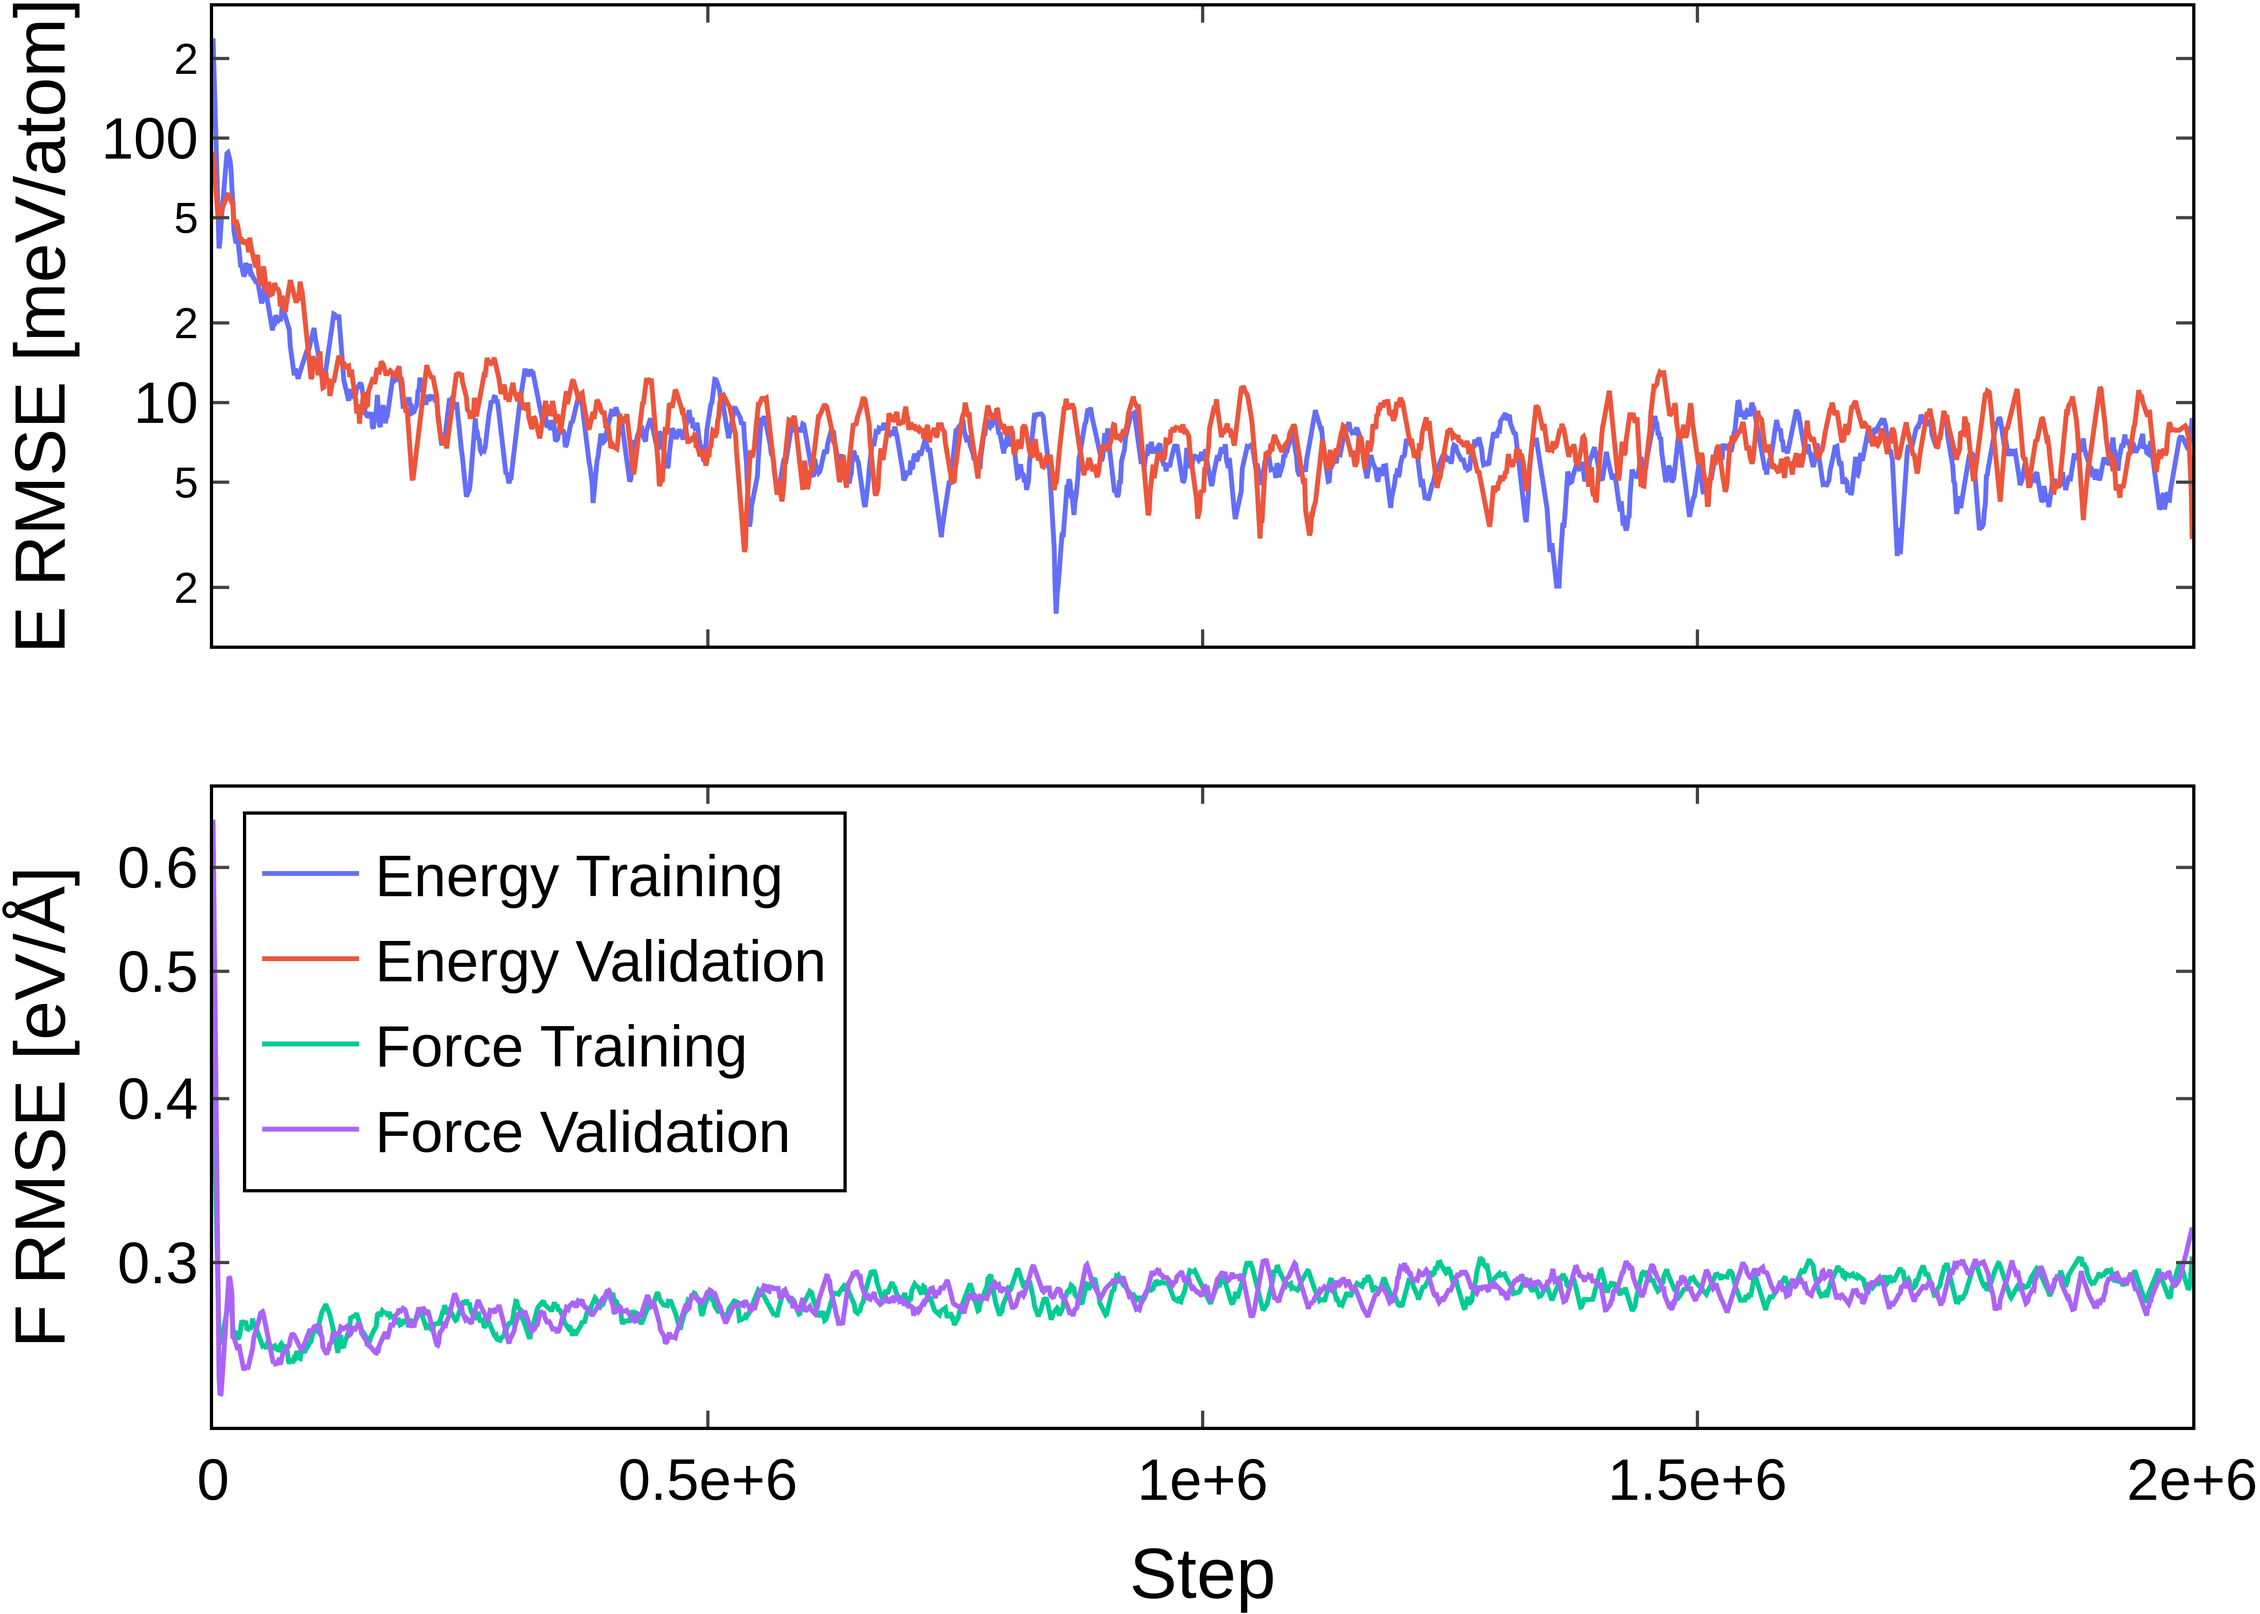
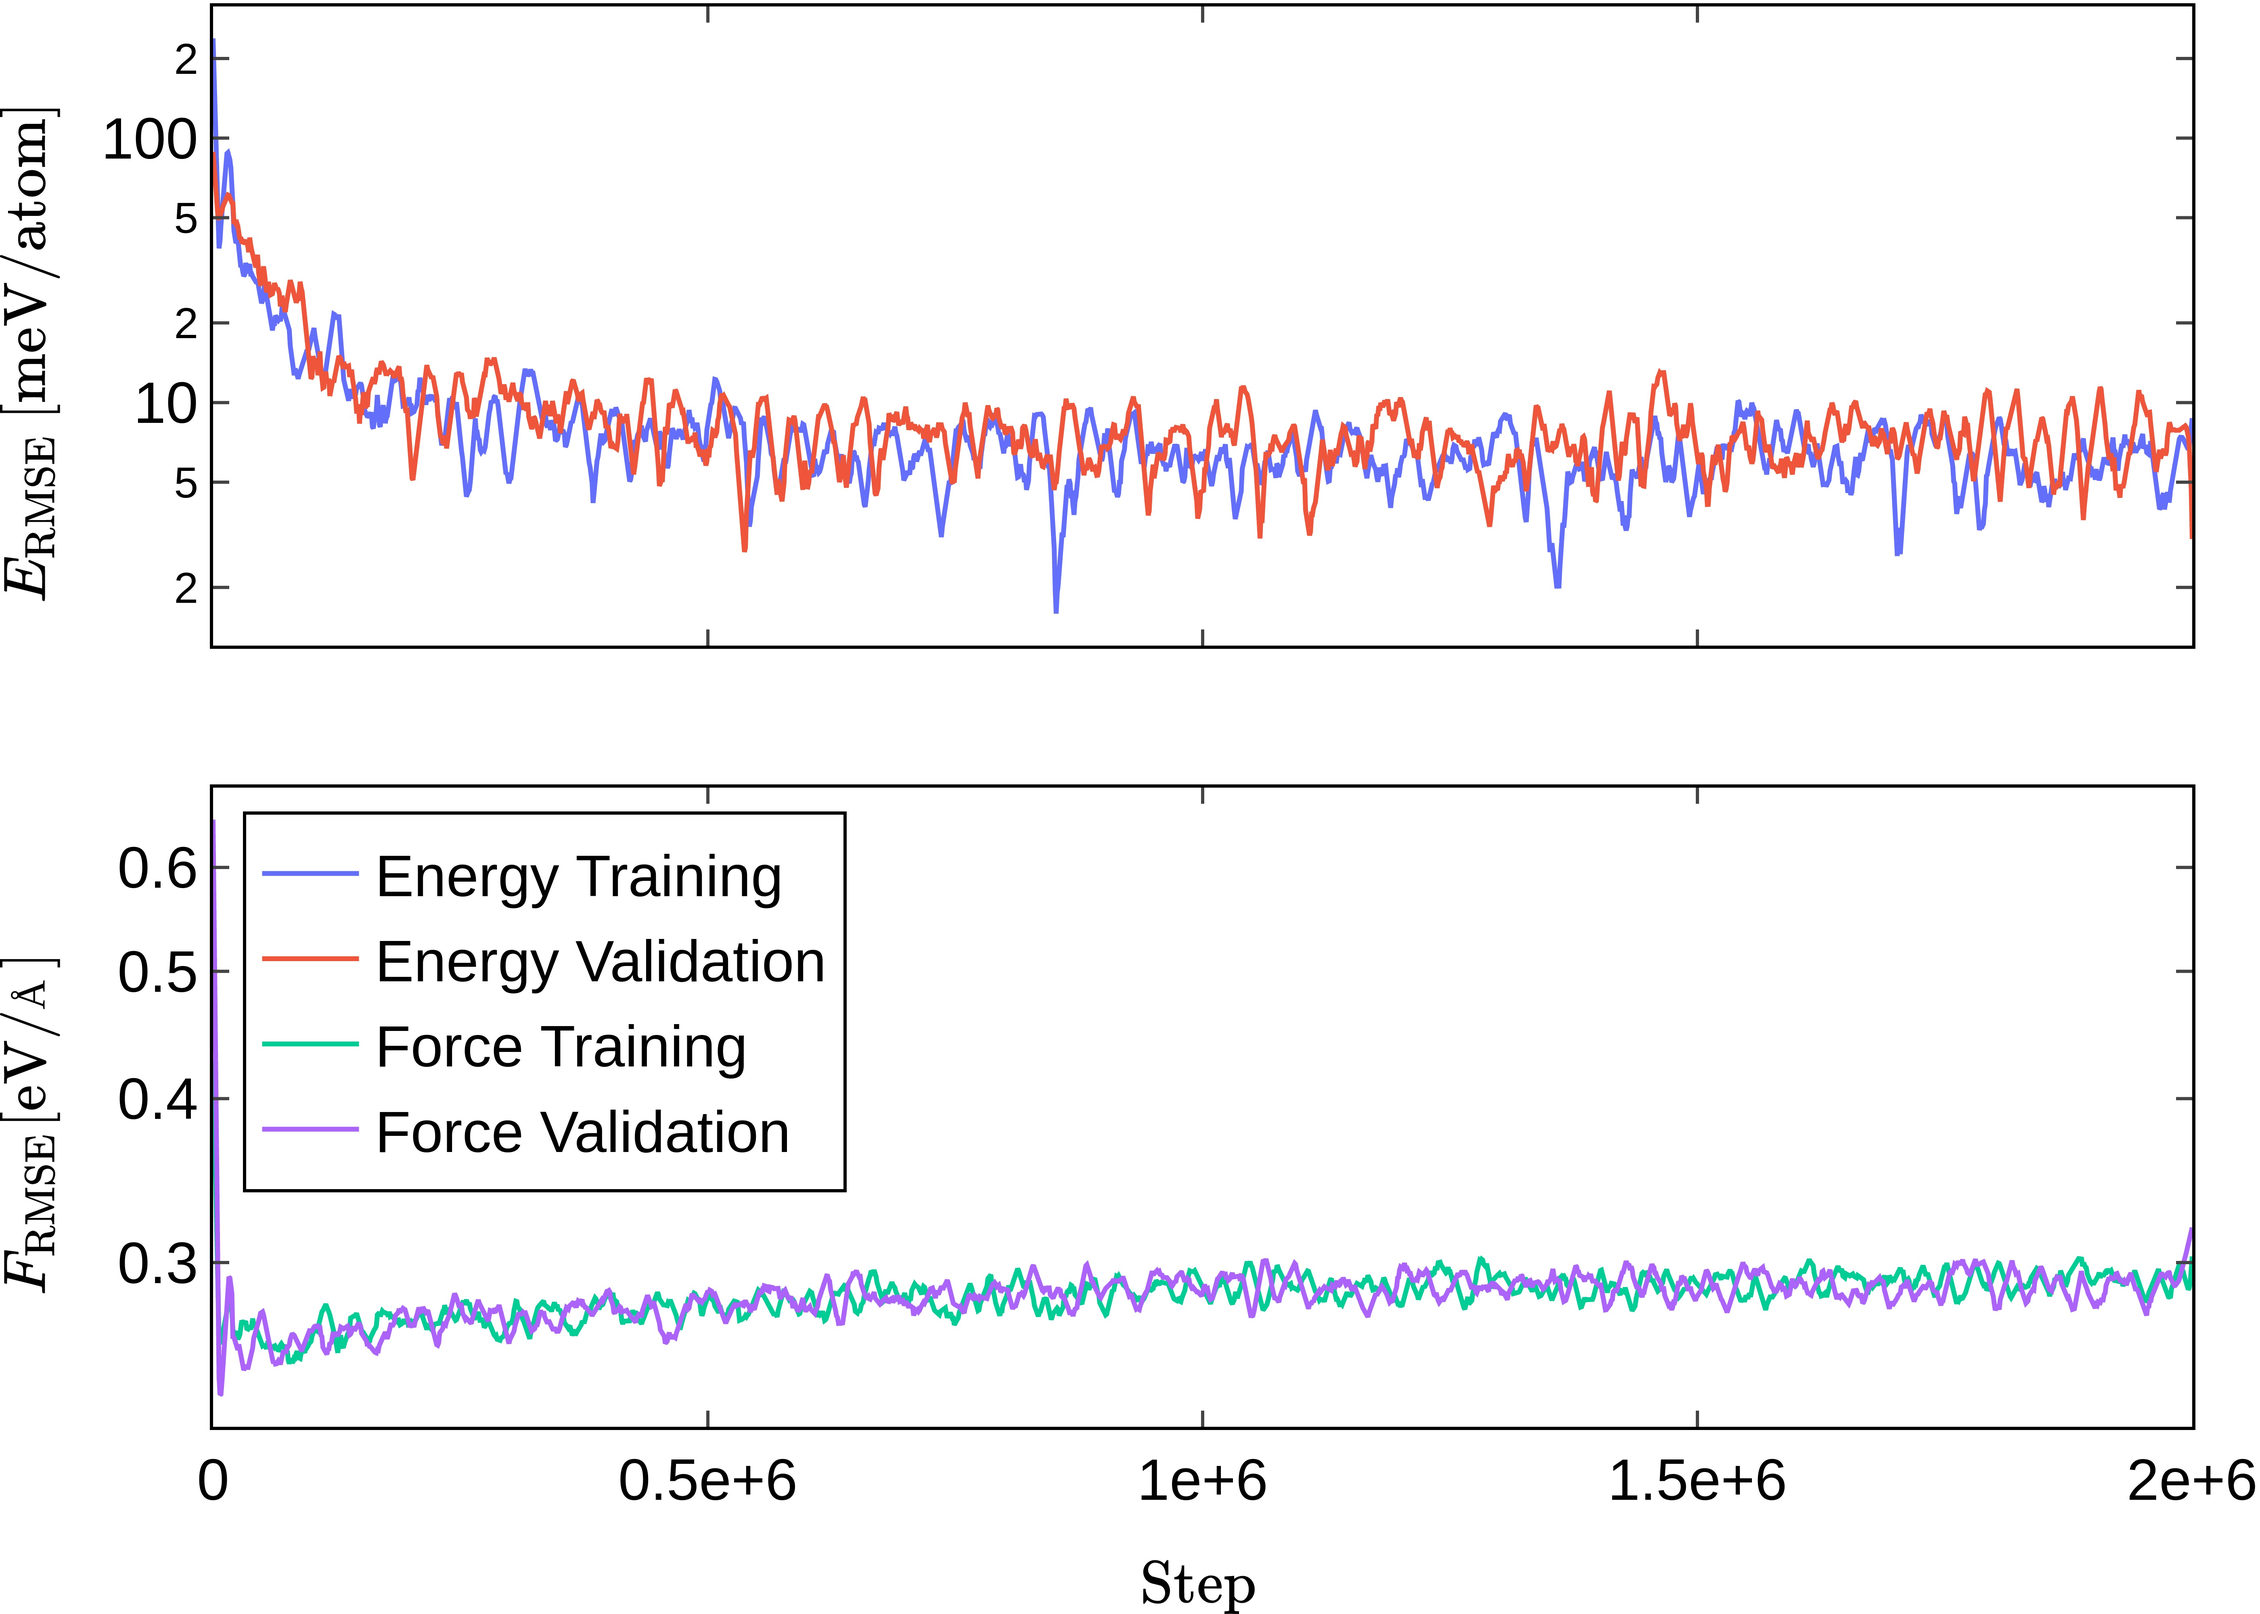
fix: latexify titles

Changed region(s): [[0.0, 0.0, 0.0312, 0.4062], [0.0, 0.5312, 0.0312, 0.8438], [0.5, 0.9375, 0.5625, 1.0]]

diff --git a/ml4md/plot_l_curves_subplots.py b/ml4md/plot_l_curves_subplots.py
@@ -44,7 +44,7 @@ def plot_l_cuves(data, output_file, savgol_window=40):
             "y_2": savgol_filter(data[:,4] * 1e3, savgol_window, 5),
             "training_color": px.colors.qualitative.Plotly[0],
             "validation_color": px.colors.qualitative.Plotly[1],
-            "y_title_text": "E RMSE [meV/atom]"
+            "y_title_text": "$E_\\text{RMSE} \, [\\text{meV}/\\text{atom}]$"
         },
         "force": {
             "x": data[:,0],
@@ -52,7 +52,7 @@ def plot_l_cuves(data, output_file, savgol_window=40):
             "y_2": savgol_filter(data[:,6], savgol_window, 5),
             "training_color": px.colors.qualitative.Plotly[2],
             "validation_color": px.colors.qualitative.Plotly[3],
-            "y_title_text": "F RMSE [eV/Å]"
+            "y_title_text": "$F_\\text{RMSE} [\\text{eV}/\\text{Å}]$"
         }
     }
 
@@ -118,7 +118,7 @@ def plot_l_cuves(data, output_file, savgol_window=40):
     )
 
     fig.update_xaxes(
-        title_text="Step",
+        title_text="$\\text{Step}$",
         col=1,
         row=2
     )
